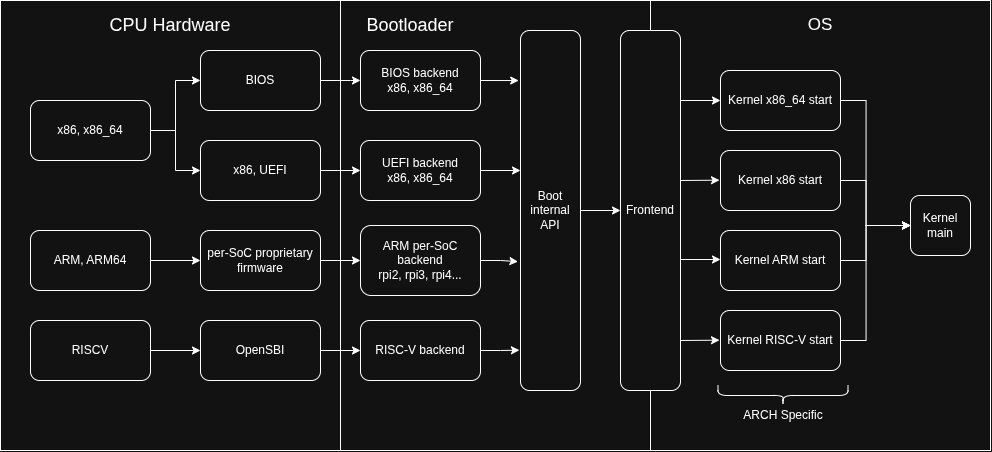
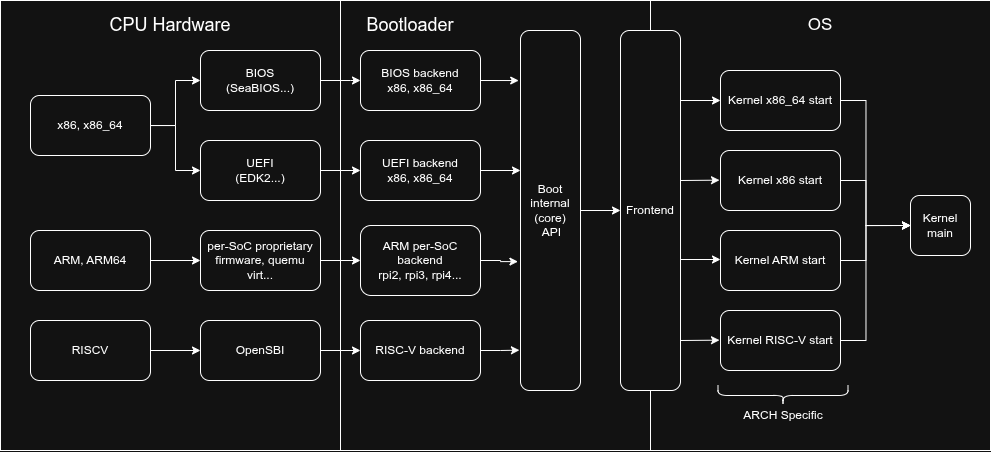
README: added boot stages timeline

diff --git a/README.md b/README.md
@@ -36,6 +36,17 @@ systems, we need to design some abstractions:
 
 ![boot-diagram](./boot-diagram.png)
 
+The boot process itself is divided in multiple phases, inspired by [coreboot](https://doc.coreboot.org/getting_started/architecture.html):
+
+- bootblock: the first stage executed after CPU reset, sets up an environment to
+  run C
+- romstage: initialize DRAM
+- postcar: leave CAR (Cache As Ram) and load ramstage
+- ramstage: main device init
+- iperboot proper: common initialization and bootloader logic, loads the OS in
+  memory
+- payload (the OS)
+
 This project also defines a fully custom frontend API,
 [iperboot-protocol](./frontend/iperboot/README.md), inspired by multiboot and
 Linux's boot protocol.